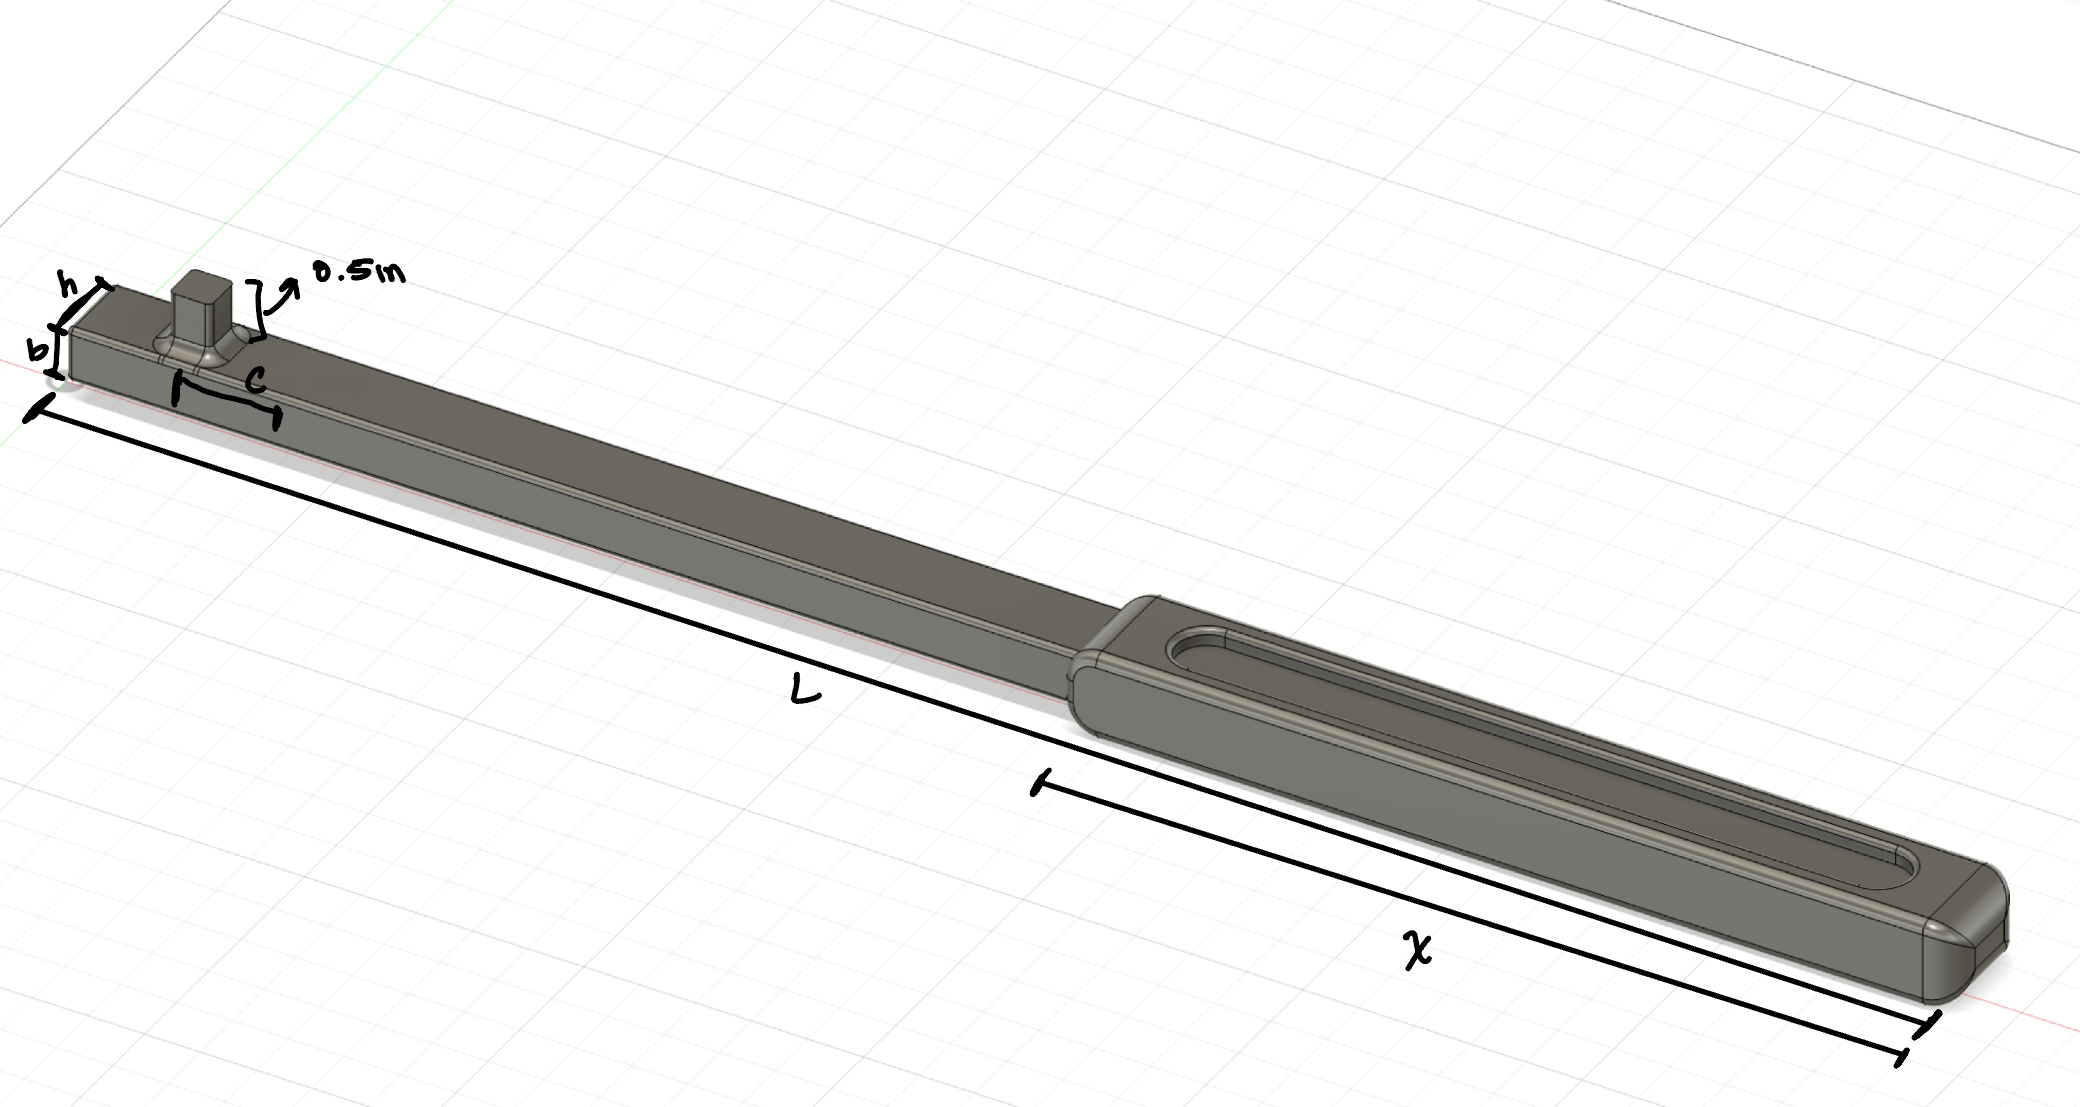
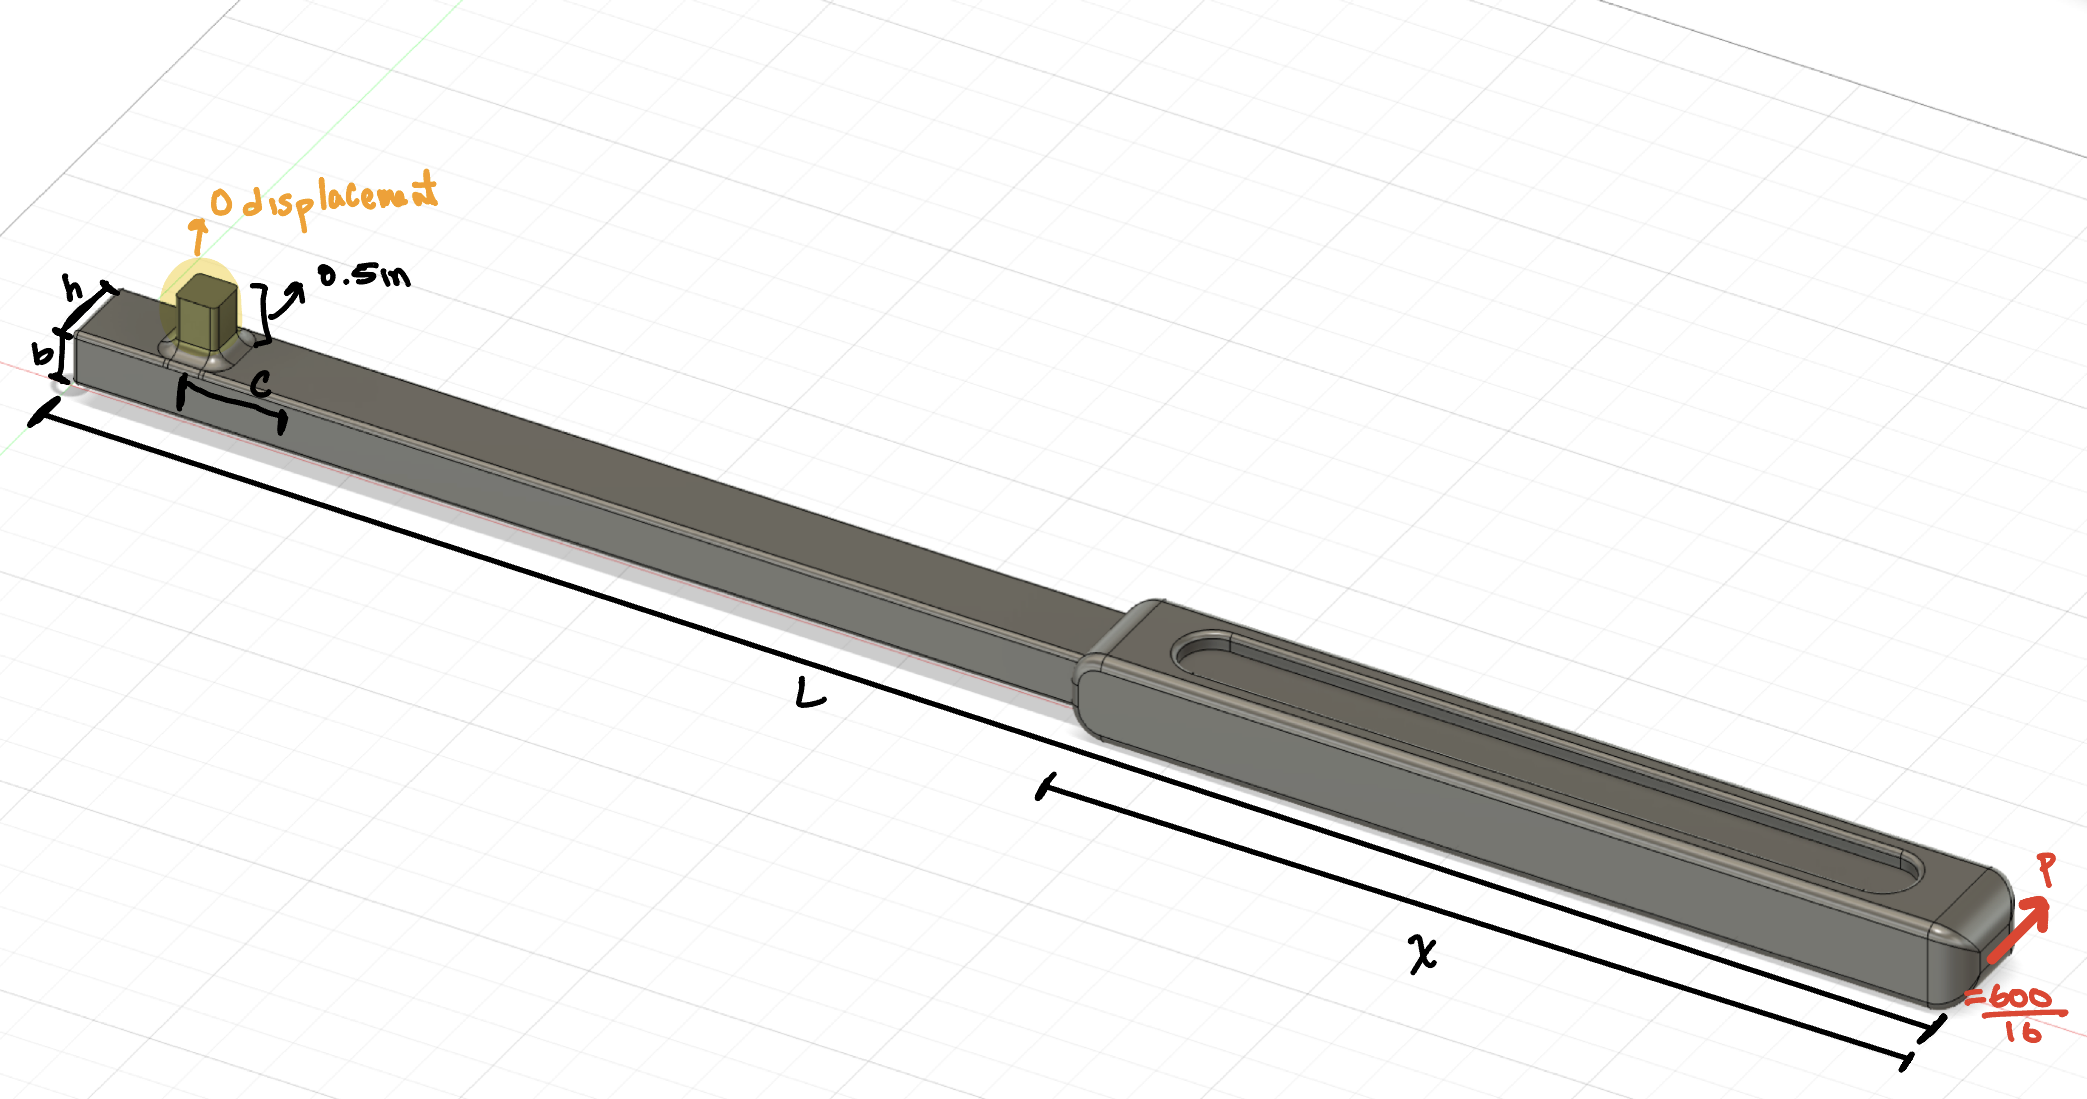
late

diff --git a/_projects/Instumented Torque Wrench Project.md b/_projects/Instumented Torque Wrench Project.md
@@ -26,6 +26,8 @@ Key dimensions shown in the CAD drawing include:
 - Handle thickness **b = 0.5 in**
 - Strain-gauge distance **c = 1 in**
 - Handle Length **W = 8 in**
+- Equivilant Force **P = M/L** **=37.5lbf** (red)
+- Yellow = **Boundary condition of zero displacement**
 
 These dimensions were driven directly by my analytical design script to balance stress constraints and sensitivity requirements.
 
